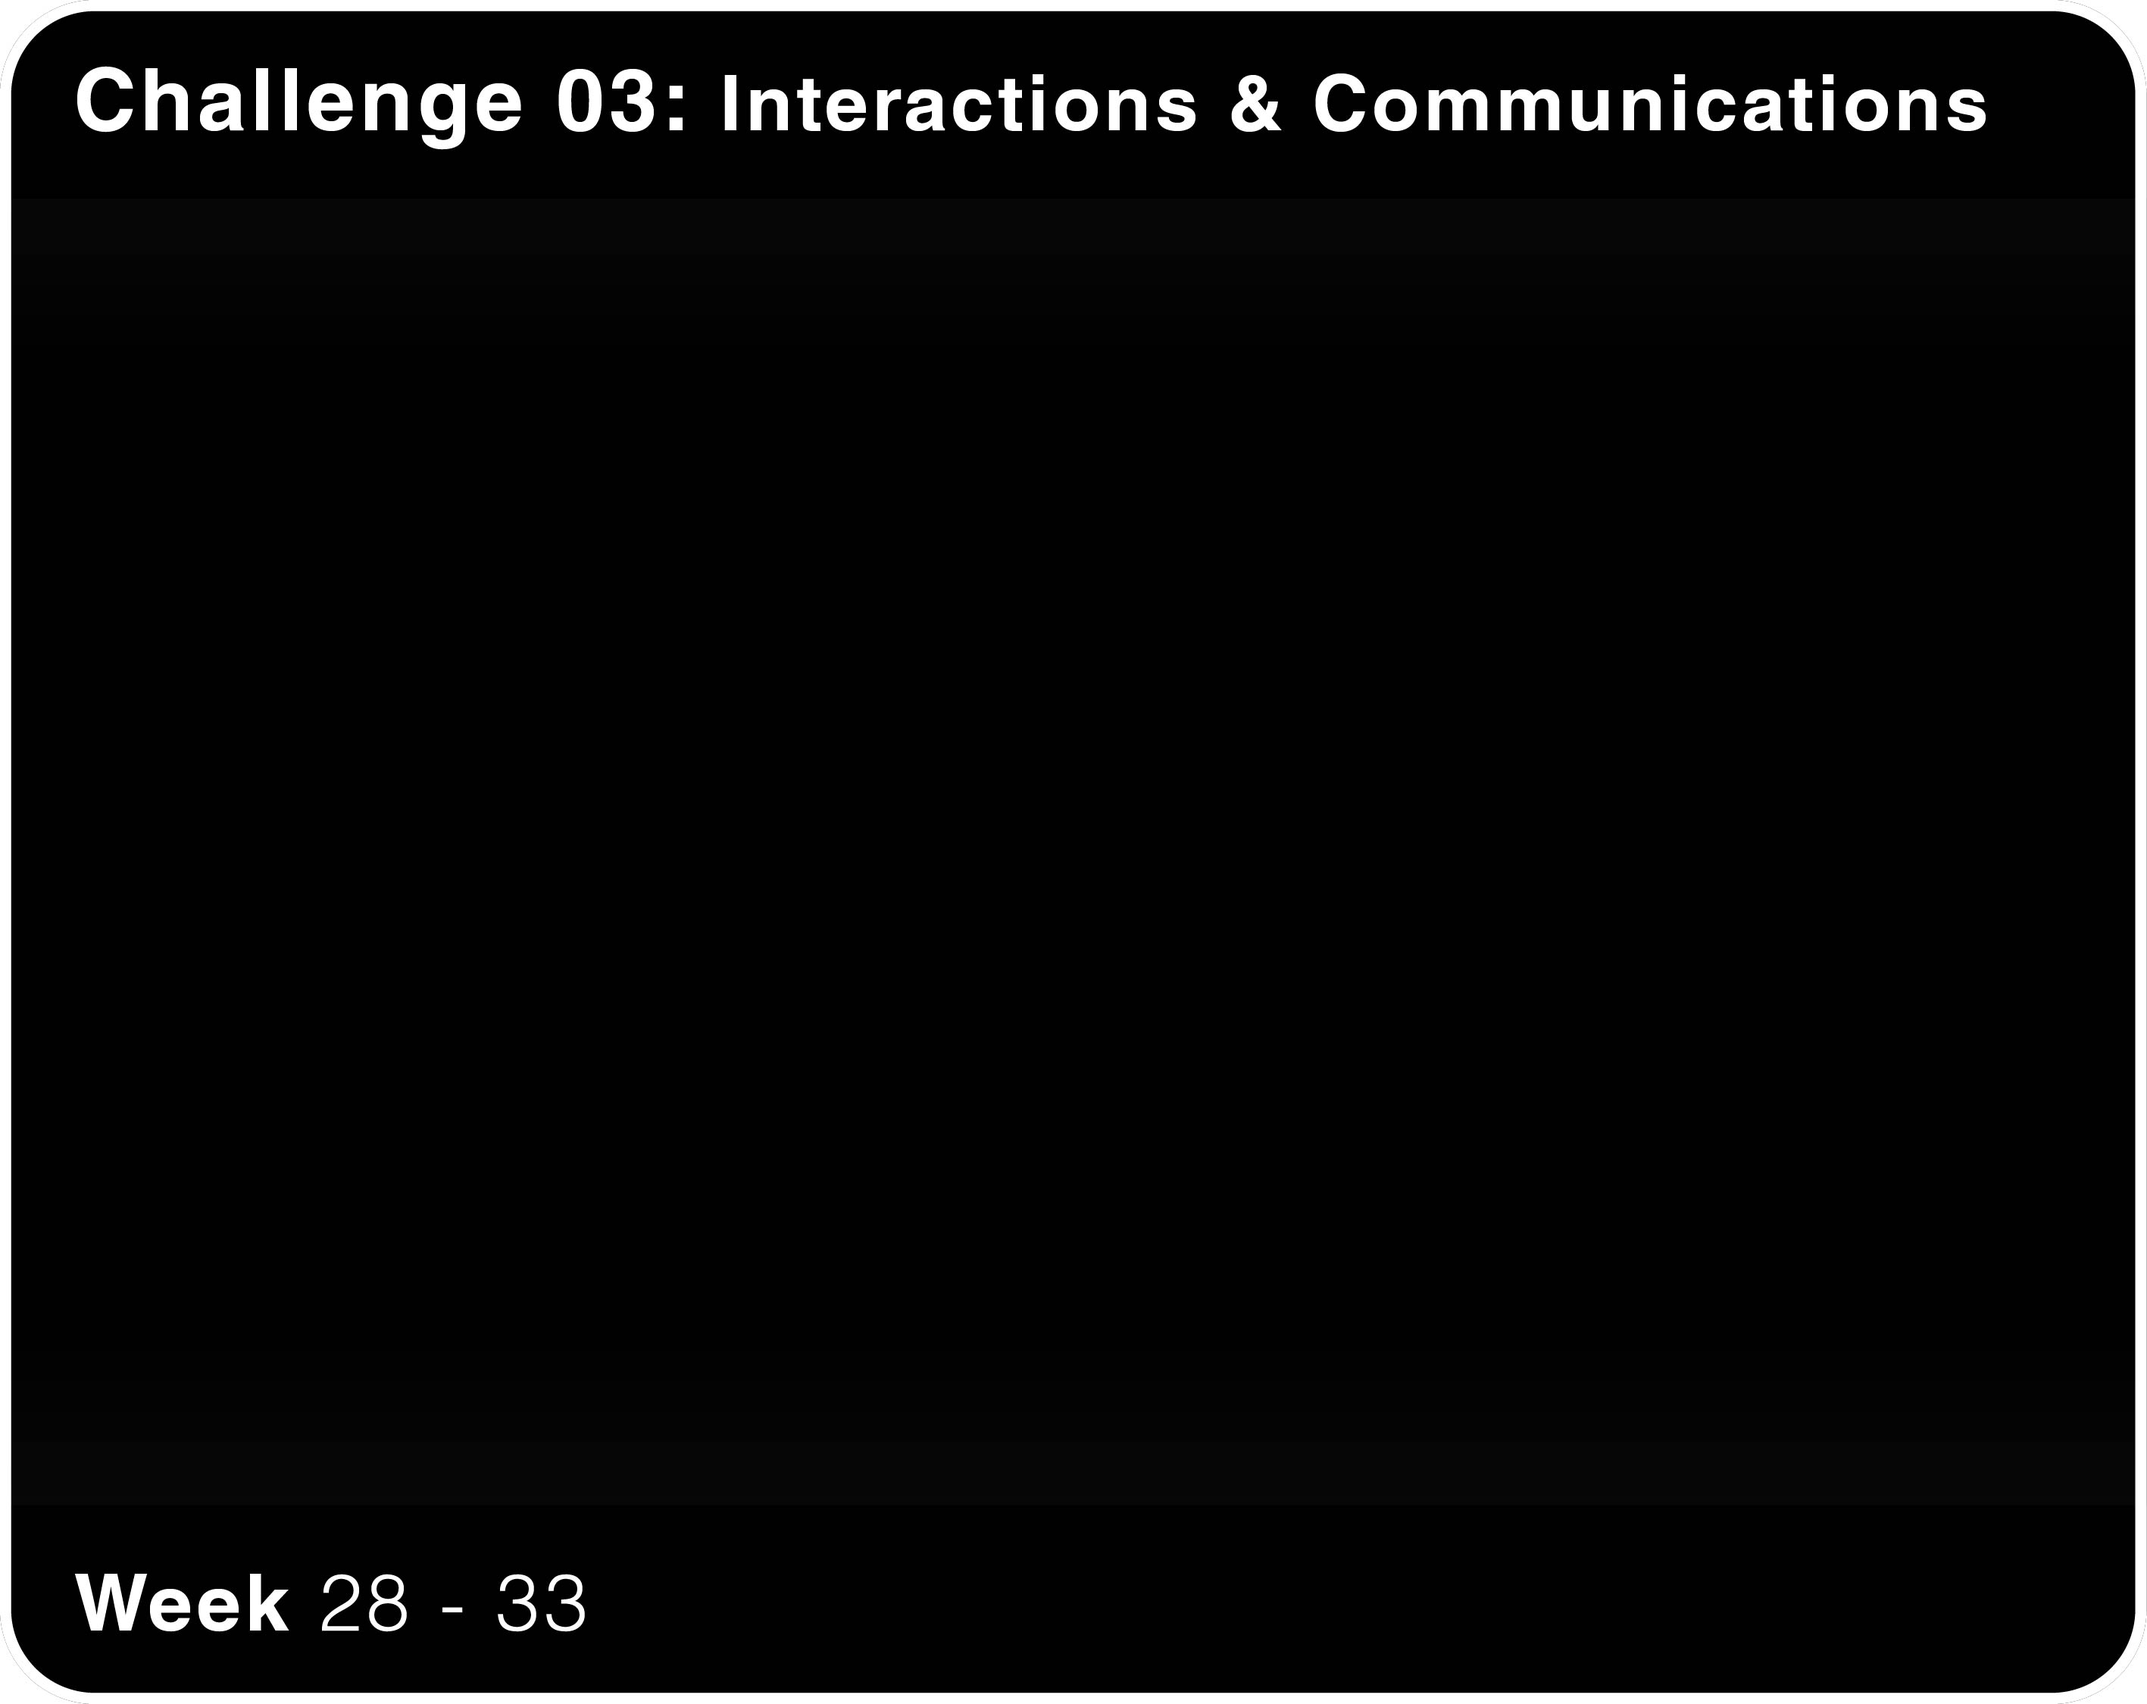
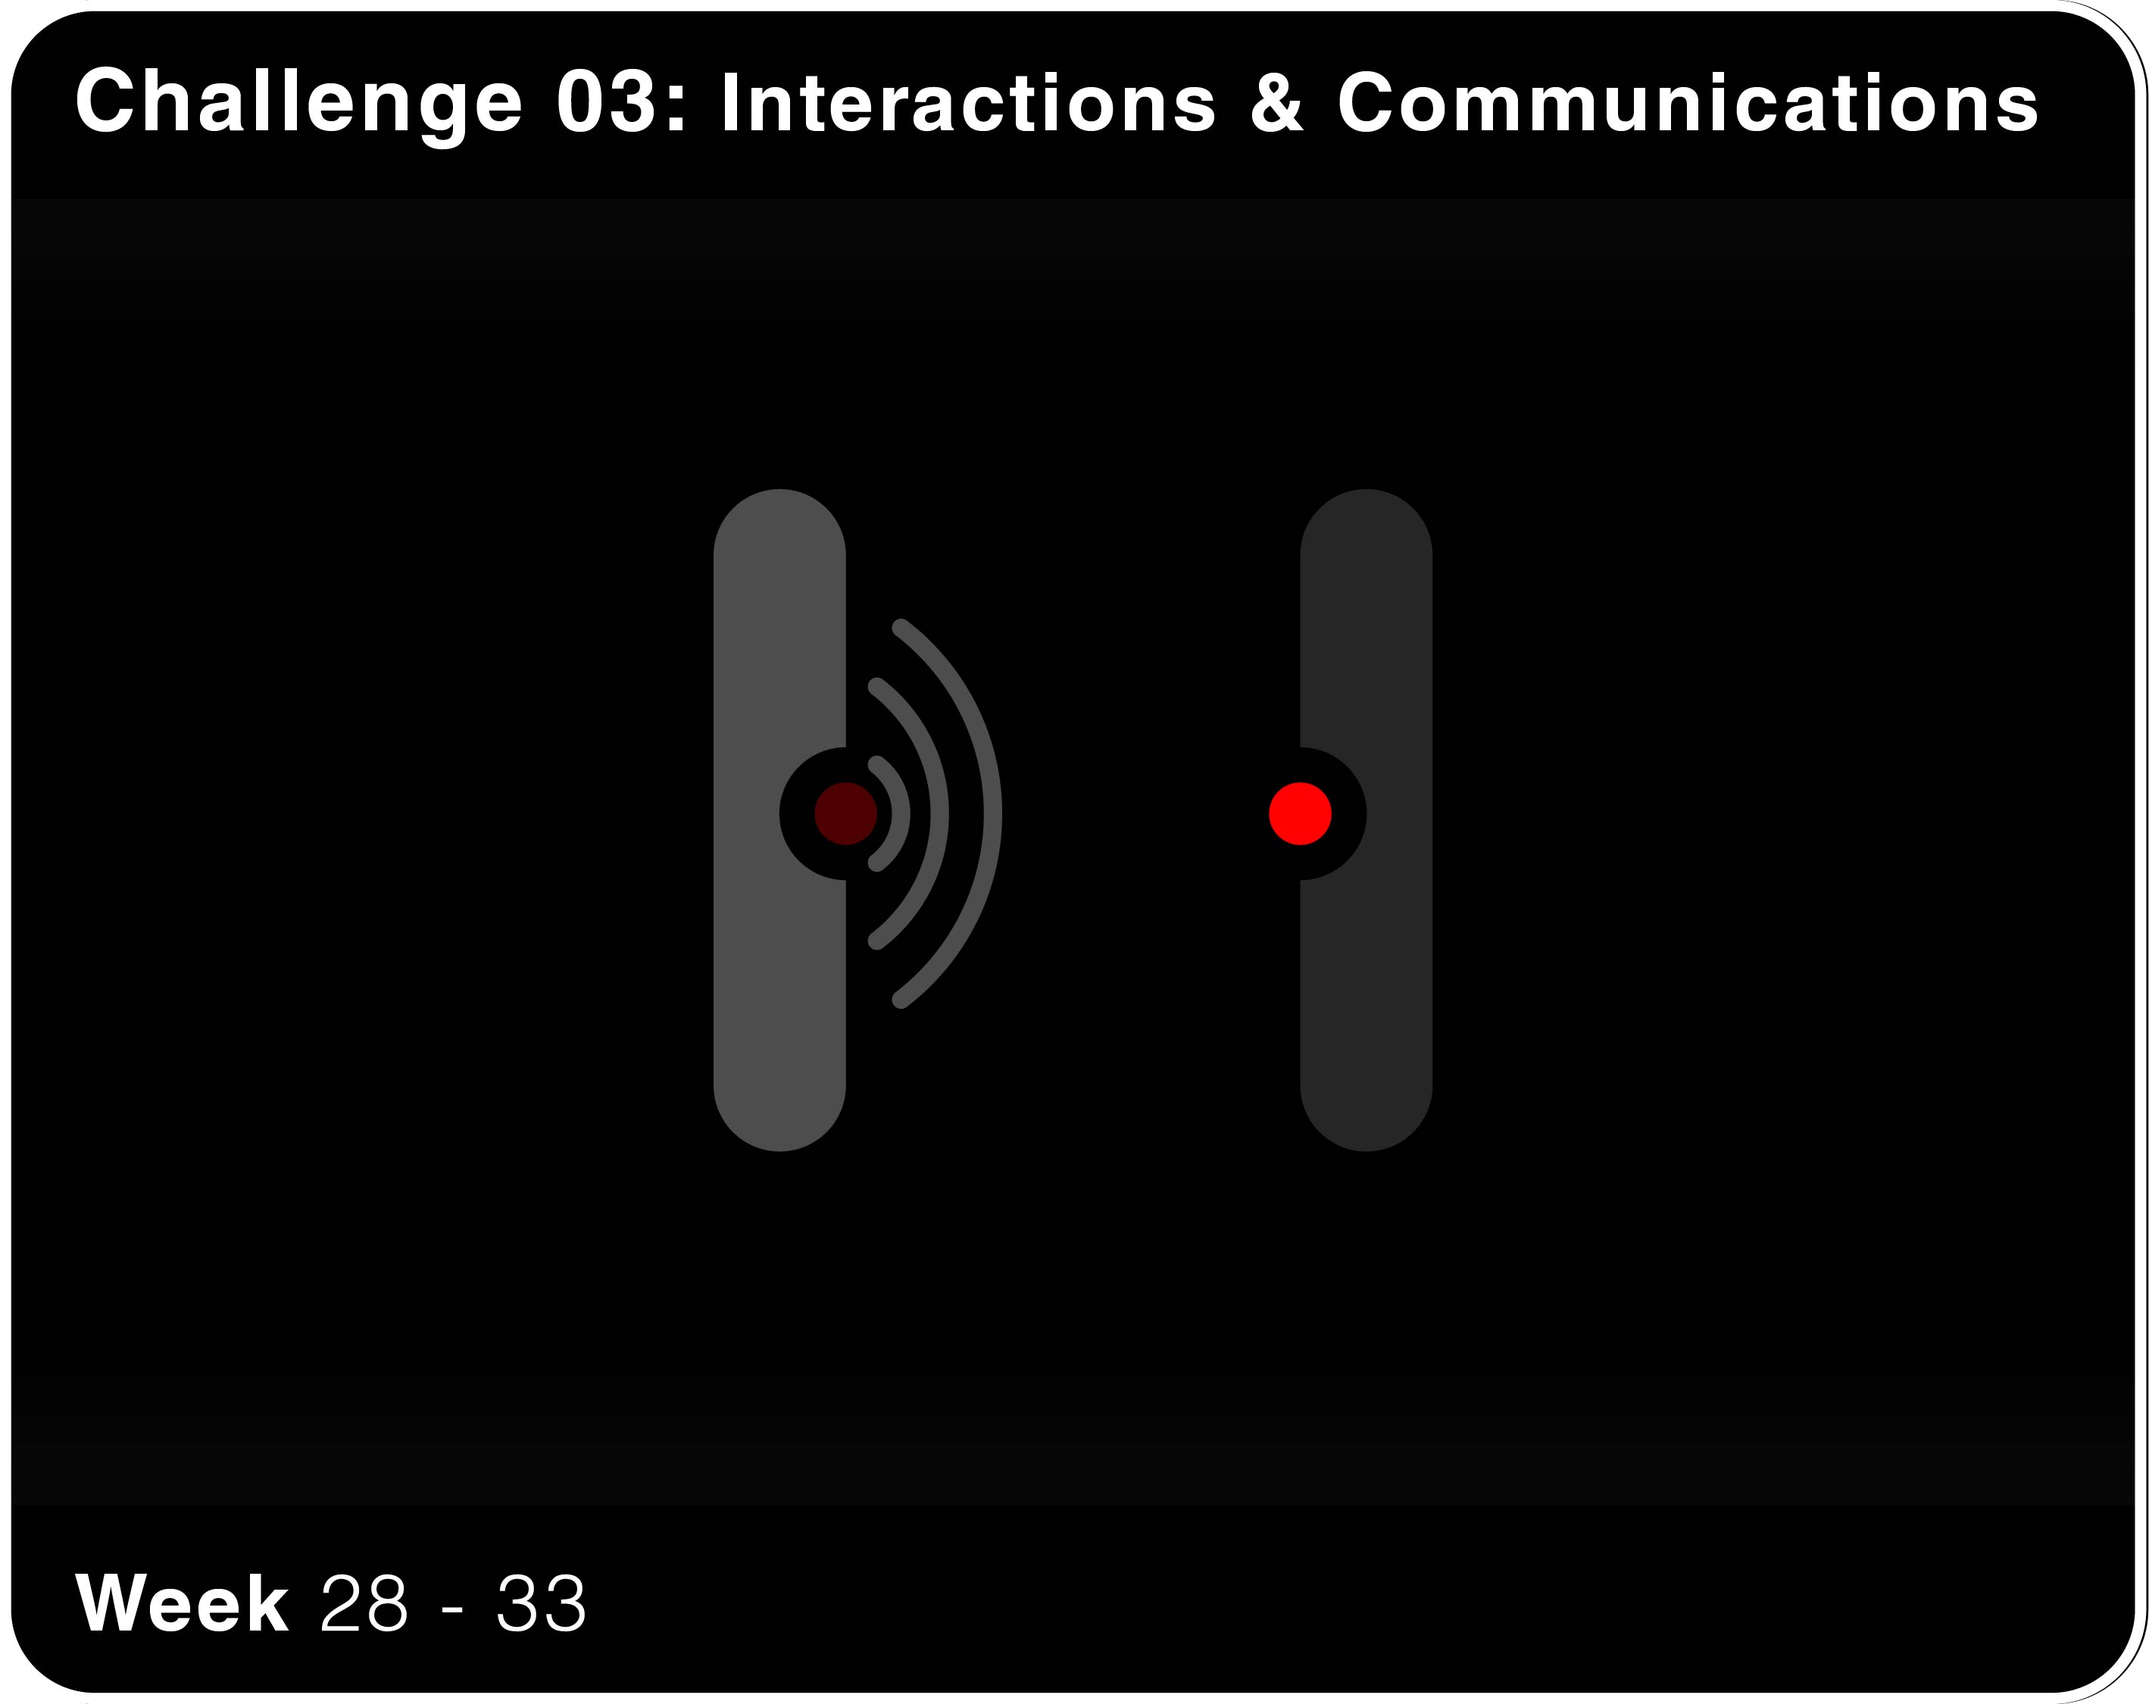
69th commit

diff --git a/fabacademy/challenge03.html b/fabacademy/challenge03.html
@@ -35,13 +35,47 @@
 
         <h1>Fab challenge 3</h1>
         <p class="intro">
-          The third Fab Academy challen focussed on....
+          The third Fab Academy challenge focussed on the interaction and communication with electronics.
         </p>
-        
-       
+        </div>
+
+        <div class="boundbox">
+          <p class="boundtext">Output Devices</p>
+        </div>
+        <div class="textbox">
+          <p>
+            Oscar started off with a recap on microcontrollers for the purpose of giving more information to assemble a PCB.
+            Examples of microcontroller assembled on a PCB (=microcontroller board) are Arduino Uno and Adafruit Feather. A stacked assembly of PCB's are called shields. 
+            Depending on the desired functionality each shield can perform distinct roles/actions. Raspberry Pi uses HAT's (Hardware Attached on Top) as terminology for shields. 
+          </p>
+          <h3>Power supply</h3>
+          <p>In expansion to the microcontroller Oscar explained on the different types of power suppliers. Options include items and topics to chooce include batteries, battery-packs, ethernet, 230AC, 5/12V DC adapters.   </p>
+        </div>
+
+
+        <div class="boundbox">
+          <p class="boundtext">Input Devices</p>
+        </div>
+        <div class="textbox">
+          <p>
+            The core purpose of sensors is to capture and monitor data. The aggregation of this data can be collected into powerful indices. 
+            For example, with locational wifi tracking one can track the location of people within a room or house without needing to see them physically. 
+            
+            sensors, digital reads, Arduino. Smart Citizen as example of environmental sensing.
+
+            In Arduino the digital signalling works by a 5V signal as input (HIGH) and 0V as ground (LOW). So without values inbetween (binary).
+           
+            </p>
+        </div>
+        <div class="imagebox"><img src="images/sensoring.png" class="imagesmall"></div>
+        <div class="tag"><p3><i>figure 1:</i> Types of sensors.</p3></div>
+
       </div>
       <footer>
-
+        Links: <a class="link" href="https://www.google.com/">Google</a><br>
+        Created on: April 20th, 2022<br>
+        Edited on: April 20th, 2022<br>
+        By Ruben de Haan
 
       </footer>
     </body>

diff --git a/term2/1.drone.html b/term2/1.drone.html
@@ -134,6 +134,13 @@
         <div class="imagebox"> <img src="images/droneschematics3.png" class="imagemedium"></div>
         <div class="tag"><p3><i>figure 5:</i> PDB and XT60 battery connector added to the circuitry.</p3></div>
 
+        <div class="imagebox">
+        <iframe src="https://player.vimeo.com/video/697923078?h=6c3632cae1&amp;badge=0&amp;autopause=0&amp;player_id=0&amp;app_id=58479" width="640" height="360" frameborder="0" allow="autoplay; fullscreen; picture-in-picture" allowfullscreen title="[2022-03-21] flight test"></iframe>
+        <iframe src="https://player.vimeo.com/video/697923972?h=0d644b1fb8&amp;badge=0&amp;autopause=0&amp;player_id=0&amp;app_id=58479" width="640" height="360" frameborder="0" allow="autoplay; fullscreen; picture-in-picture" allowfullscreen title="[2022-03-30] flight test.mp4"></iframe>
+     
+      </div>
+       
+        <div class="tag"><p3><i>figure 6:</i> Video of functional test.</p3></div>
 
 
 
@@ -154,7 +161,7 @@
       </div>
 
         <div class="imagebox"> <img src="images/droneappli1.png" class="imagemedium"></div>
-        <div class="tag"><p3><i>figure 6:</i> PDB and XT60 battery connector added to the circuitry.</p3></div>
+        <div class="tag"><p3><i>figure 7:</i> Ideas on exploratory applications.</p3></div>
 
 
         <div class="textbox">

diff --git a/fabacademy/challenge02.html b/fabacademy/challenge02.html
@@ -225,18 +225,6 @@
           </div>
 
 
-          <div class="boundbox">
-            <p class="boundtext">Output Devices</p>
-          </div>
-          <div class="textbox">
-            <p>
-              Oscar started off with a recap on microcontrollers for the purpose of giving more information to assemble a PCB.
-              Examples of microcontroller assembled on a PCB (=microcontroller board) are Arduino Uno and Adafruit Feather. A stacked assembly of PCB's are called shields. 
-              Depending on the desired functionality each shield can perform distinct roles/actions. Raspberry Pi uses HAT's (Hardware Attached on Top) as terminology for shields. 
-            </p>
-            <h3>Power supply</h3>
-            <p>In expansion to the microcontroller Oscar explained on the different types of power suppliers. Options include items and topics to chooce include batteries, battery-packs, ethernet, 230AC, 5/12V DC adapters.   </p>
-          </div>
 
 
       </div>

diff --git a/term3.html b/term3.html
@@ -45,6 +45,7 @@
         </p2>      
           <section>
               <li class="term3-item"> <a href="term3/2.designethics.html" ><img class="item"src="term3/images/reflectionDE.jpg"></a></li>
+              <li class="term3-item"> <a href="term3/4.curatingnormals.html" ><img class="item"src="term3/images/reflectionCN.jpg"></a></li>
 
           </section>
           
